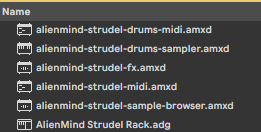
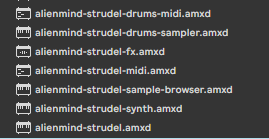
docs: refresh the screenshots, and show the three devices working as one chain
The new shot is the one the docs were missing: Strudel MIDI sequencing
<c3 c3 <c3 c#3>>*16, into Strudel Synth playing s("sawtooth"), into Strudel Audio FX
filtering it with .lpf(6613). Three devices, three lines of Strudel, one ordinary
Ableton track - which is the argument for the whole set, and much harder to make in
prose than in a picture. Referenced from README (after the device table) and ABOUT
(after the micro-device table), captioned with what each device in it is doing.

Also adds a shot of the renamed main Strudel device and refreshes the all-devices
overview, both of which still showed the pre-1.0.0 UI.

diff --git a/README.md b/README.md
@@ -33,9 +33,15 @@ The result is a set of **Max for Live devices** that bring [Strudel](https://str
 
 ## What's in the box
 
+![The Strudel device - a full Strudel expression playing as the track's audio](doc/screenshot-strudel.png)
+
 The main deliverable is one instrument called **Strudel** (`alienmind-strudel`) that understands the full Strudel language (with some exceptions, see [STRUDEL-SUPPORT.md](doc/STRUDEL-SUPPORT.md)) and sequences notes, sounds and effects natively with the superdough engine, in sync with Ableton's transport clock. It was called `alienmind-strudel-superdough` before 1.0.0; the engine is still superdough, but the device is the whole language, so it carries the plain name. **A set saved with the old device keeps its own copy of it and will not pick up the rename - re-add the device to move a set across.** **Caveat:** highly experimental, and it sequences its own pattern rather than playing incoming MIDI.
 
 We deliver a set of experimental devices (MIDI control, instrument, audio effect), and nothing else - the devices are the distribution.
+
+They also compose. Here is the whole idea in one chain: **Strudel MIDI** sequencing `<c3 c3 <c3 c#3>>*16`, feeding **Strudel Synth** playing `s("sawtooth")`, into **Strudel Audio FX** filtering it with `.lpf(6613)` - three devices, three lines of Strudel, one ordinary Ableton track.
+
+![A chain of three devices: Strudel MIDI sequences notes, Strudel Synth turns them into sound, Strudel Audio FX filters the result](doc/screenshot-all-three-microdevices.png)
 
 We also deliver **additional utility instruments** that showcase different capabilities, and are just some tools in the toolset for any curious and adventurous producer:
 

diff --git a/doc/ABOUT.md b/doc/ABOUT.md
@@ -30,6 +30,8 @@ Known issues in this release: **Export** on the Strudel device fails to write it
 
 ### The Main Instrument: Strudel
 
+![The Strudel device - a full Strudel expression playing as the track's audio](screenshot-strudel.png)
+
 The primary deliverable is **Strudel** (`alienmind-strudel`, called `alienmind-strudel-superdough` before 1.0.0). This instrument understands the full Strudel language and uses the real `@strudel/superdough` engine to natively produce sounds (synths, oscillators, samples) and effects, perfectly in sync with Ableton's transport clock.
 
 > ⚠️ **Experimental Limitations:** superdough now runs LIVE in the device, so edits and knob turns are audible immediately and there is no loop boundary to wait for. What remains:
@@ -49,6 +51,10 @@ We also deliver a set of specialized, lightweight devices - some translating Str
 | **Strudel Drums Sampler** | Instrument, **MIDI track** | A code-driven drum sampler. Write `s("bd sd, hh*8")`, pick a drum machine **bank**, and it plays that machine's sounds. |
 | **Strudel Audio FX** | Audio effect, **audio track** | Type a single line of Strudel's DSP effect vocabulary (e.g., `.lpf(800).gain(1.2)`) and it generates a real Max signal chain on the track. |
 | **Strudel Samples** | Instrument, **MIDI track** | Browse Strudel's sample-map universe. Audition samples beat-synced to your project and drag them straight into a Drum Rack. |
+
+They are meant to be combined. The chain below is the whole idea in one track: **Strudel MIDI** sequences the notes (`<c3 c3 <c3 c#3>>*16`), **Strudel Synth** turns each one into sound (`s("sawtooth")`), and **Strudel Audio FX** filters the result (`.lpf(6613)`). Every line is Strudel; every knob is a real, automatable Live parameter.
+
+![A chain of three devices: Strudel MIDI sequences notes, Strudel Synth turns them into sound, Strudel Audio FX filters the result](screenshot-all-three-microdevices.png)
 
 ---
 